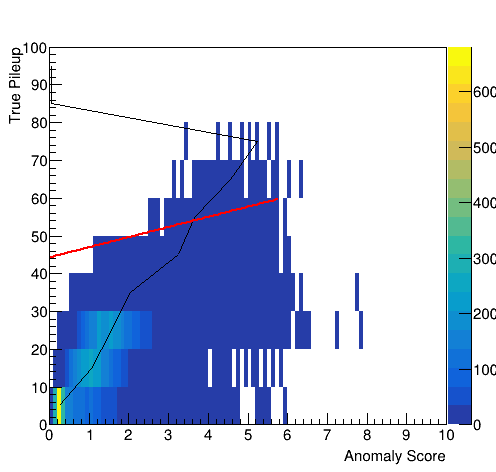
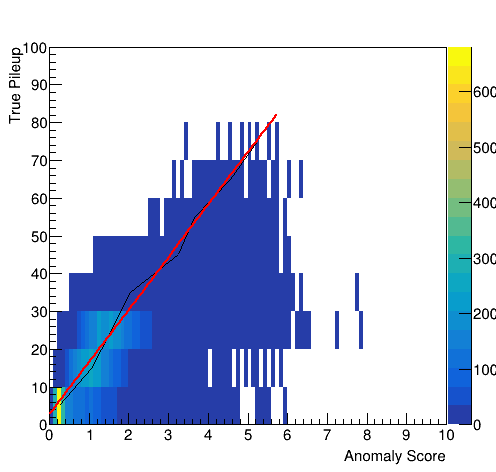
fits

diff --git a/genScripts/avgfitHist.py b/genScripts/avgfitHist.py
@@ -42,16 +42,34 @@ hist.GetYaxis().SetTitleOffset(1.2)
 hist.Draw("COLZ")
     
 avgforEachP = f.Get("maxforEachP_run"+run)
-avgforEachP.Fit("pol2")
+# TF1 *f = new TF1("f", "[2] * x * x + [1] * x + [0]"); g->Fit(f); g->Draw("AL");
+# f = ROOT.TF1("f", "[1] * (x ** (0.5)) + [0]")
+# avgforEachP.Fit(f)
+avgforEachP.Fit("pol1")
 avgforEachP.Draw("SAME")
 """
 Pol2
+Minimizer is Linear / Migrad
+Chi2                      =      76.7183
+NDf                       =            7
+p0                        =      4.71794   +/-   2.8525      
+p1                        =      13.3575   +/-   2.37296     
+p2                        =     0.467661   +/-   0.402548    
+Info in <TCanvas::Print>: png file fittedpol2maxforEachP_runA.png has been created
 Chi2                      =      238.864
 NDf                       =            7
 p0                        =      2.84265   +/-   5.626       
 p1                        =      13.0512   +/-   4.69652     
 p2                        =     0.630961   +/-   0.801948    
 Info in <TCanvas::Print>: png file fittedmaxforEachP_runC.png
+Minimizer is Linear / Migrad
+Chi2                      =      5348.04
+NDf                       =            7
+p0                        =      61.5814   +/-   16.5134     
+p1                        =     -28.9918   +/-   17.6272     
+p2                        =      6.42238   +/-   3.43799     
+Info in <TCanvas::Print>: png file fittedpol2maxforEachP_runD.png has been created
+
 Pol1
 Minimizer is Linear / Migrad
 Chi2                      =      91.5103
@@ -65,14 +83,44 @@ p0                        =    -0.436954   +/-   3.68738
 p1                        =      16.6459   +/-   1.06161     
 Info in <TCanvas::Print>: png file fittedmaxforEachP_runC.png has been created
 Minimizer is Linear / Migrad
-Chi2                      =      8014.16
-NDf                       =            8
-p0                        =      44.1844   +/-   15.6153     
-p1                        =      2.67999   +/-   5.52343     
+Chi2                      =      33.3333
+NDf                       =            6
+p0                        =          2.5   +/-   1.60295     
+p1                        =      13.8889   +/-   0.507151    
 Info in <TCanvas::Print>: png file fittedpol1maxforEachP_runD.png has been created
+
+Pol1/2
+Chi2                      =      472.621
+NDf                       =            8
+Edm                       =  1.33337e-21
+NCalls                    =           35
+p0                        =     -22.8233   +/-   6.79643     
+p1                        =      45.2489   +/-   3.94369 
+Info in <TCanvas::Print>: png file fittedpol12maxforEachP_runA.png has been created
+Chi2                      =      731.975
+NDf                       =            8
+Edm                       =  6.88087e-20
+NCalls                    =           31
+p0                        =     -26.5615   +/-   8.97152     
+p1                        =       46.719   +/-   5.154       
+Info in <TCanvas::Print>: png file fittedpol12maxforEachP_runC.png has been created
+Chi2                      =      8248.01
+NDf                       =            8
+Edm                       =   3.2578e-20
+NCalls                    =           30
+p0                        =      50.7791   +/-   20.4476     
+p1                        =    -0.609299   +/-   13.8807     
+Info in <TCanvas::Print>: png file fittedpol12maxforEachP_runD.png has been created
+Chi2                      =      129.856
+NDf                       =            6
+Edm                       =  1.35589e-20
+NCalls                    =           31
+p0                        =     -21.4007   +/-   4.76994     
+p1                        =      39.8089   +/-   2.90289     
+Info in <TCanvas::Print>: png file fittedpol12maxforEachP_runD.png has been created    
 """
 
 canvas.Draw()
-canvas.SaveAs('fittedpol2'+a+run+'.png')
+canvas.SaveAs('fittedpol1'+a+run+'.png')
 
 

diff --git a/genScripts/avgfitCICADA.py b/genScripts/avgfitCICADA.py
@@ -44,7 +44,7 @@ for i in tqdm(range(chains['anomalyChain'].GetEntries())): # chains['anomalyChai
 # Loop over x values for all y values
 for j in range(ybins):
     zmax = None
-    maxbin = 1
+    maxbin = 0
     for k in range(xbins):
         count += 1
         pileupC = hanompileup.GetYaxis().GetBinCenter(j+1)
@@ -63,8 +63,11 @@ for j in range(ybins):
             zmax = max(zmax, hanompileup.GetBinContent(k+1, j+1))
             if zmax == hanompileup.GetBinContent(k+1, j+1):
                 maxbin = k+1"""
-    xval.append(hanompileup.GetXaxis().GetBinCenter(maxbin))
-    yval.append(pileupC)
+    if maxbin > 0.2: # FOR RUND ONLY
+        xval.append(hanompileup.GetXaxis().GetBinCenter(maxbin))
+        yval.append(pileupC)
+    else:
+        pass
 
 print(xval, yval)
 anomscores = array('d', xval)
